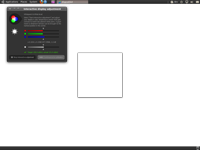
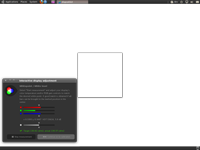
Updated ReadMe and screenshots

Changed region(s): [[0.0, 0.5067, 0.39, 0.96], [0.03, 0.0267, 0.36, 0.4267]]

diff --git a/README.html b/README.html
@@ -25,8 +25,8 @@
 		<div id="intro">
 			<div id="friendlybox">
 				<div id="get">
-					<h2>0.8.5.6</h2>
-					<p>2012-02-05 14:14 UTC</p>
+					<h2>0.8.6.2</h2>
+					<p>2012-02-05 22:39 UTC</p>
 					<ul>
 						<li class="download"><a href="#download">Get dispcalGUI</a></li>
 						<li class="requirements"><a href="#requirements">System requirements</a></li>
@@ -143,7 +143,7 @@
 				</p>
 
 				<p>
-					<span><a href="screenshots/dispcalGUI-screenshot-GNOME-adjust.png" class="imagelink" rel="lightbox-set" title="Display adjustment"><img src="screenshots/dispcalGUI-screenshot-GNOME-adjust-thumb.png" alt="Thumbnail of dispcalGUI running under Linux with GNOME" class="opaque" /></a><br />
+					<span><a href="screenshots/dispcalGUI-screenshot-GNOME-adjust.png?date=2012-02-05" class="imagelink" rel="lightbox-set" title="Display adjustment"><img src="screenshots/dispcalGUI-screenshot-GNOME-adjust-thumb.png?date=2012-02-05" alt="Thumbnail of dispcalGUI running under Linux with GNOME" class="opaque" /></a><br />
 					<small>Display adjustment</small><br /></span>
 
 					<span><a href="screenshots/dispcalGUI-screenshot-GNOME-measure.png" class="imagelink" rel="lightbox-set" title="Measurements"><img src="screenshots/dispcalGUI-screenshot-GNOME-measure-thumb.png" alt="Thumbnail of dispcalGUI running under Linux with GNOME" class="opaque" /></a><br />
@@ -514,7 +514,7 @@
 
 						<ol>
 							<li>Open a shell.</li>
-							<li><code>cd</code> into the source directory (e.g. <code>dispcalGUI-0.8.5.6</code> or <code>dispcalgui</code>).</li>
+							<li><code>cd</code> into the source directory (e.g. <code>dispcalGUI-0.8.6.2</code> or <code>dispcalgui</code>).</li>
 							<li>If you use a version from the SVN repository, run <code>python setup.py</code> to create the version file.</li>
 							<li>Run <code>python setup.py build_ext -i</code> to build the extension modules (you may be able to skip this step on Linux and Mac OS X as the source already includes compiled versions of the extension modules)</li>
 						</ol>
@@ -1409,11 +1409,11 @@ C:\Windows\system32\igfxpers.exe</code></pre></dd>
 
 		<div id="changelog">
 			<h2>Version history / changelog</h2>
-			<!-- 2012-02-05 14:14 (UTC) 0.8.5.6 -->
+			<!-- 2012-02-05 22:39 (UTC) 0.8.6.2 -->
 			<dl>
-				<dt>2012-02-05 14:14 (UTC) 0.8.5.6</dt>
+				<dt>2012-02-05 22:39 (UTC) 0.8.6.2</dt>
 					<dd>
-						<h3>0.8.5.6</h3>
+						<h3>0.8.6.2</h3>
 						<h4>Fixed in this release:</h4>
 						<ul>
 							<li>Restore previously selected testchart if canceling colorimeter correction measurements.</li>

diff --git a/misc/README.template.html b/misc/README.template.html
@@ -143,7 +143,7 @@
 				</p>
 
 				<p>
-					<span><a href="screenshots/dispcalGUI-screenshot-GNOME-adjust.png" class="imagelink" rel="lightbox-set" title="Display adjustment"><img src="screenshots/dispcalGUI-screenshot-GNOME-adjust-thumb.png" alt="Thumbnail of dispcalGUI running under Linux with GNOME" class="opaque" /></a><br />
+					<span><a href="screenshots/dispcalGUI-screenshot-GNOME-adjust.png?date=2012-02-05" class="imagelink" rel="lightbox-set" title="Display adjustment"><img src="screenshots/dispcalGUI-screenshot-GNOME-adjust-thumb.png?date=2012-02-05" alt="Thumbnail of dispcalGUI running under Linux with GNOME" class="opaque" /></a><br />
 					<small>Display adjustment</small><br /></span>
 
 					<span><a href="screenshots/dispcalGUI-screenshot-GNOME-measure.png" class="imagelink" rel="lightbox-set" title="Measurements"><img src="screenshots/dispcalGUI-screenshot-GNOME-measure-thumb.png" alt="Thumbnail of dispcalGUI running under Linux with GNOME" class="opaque" /></a><br />
